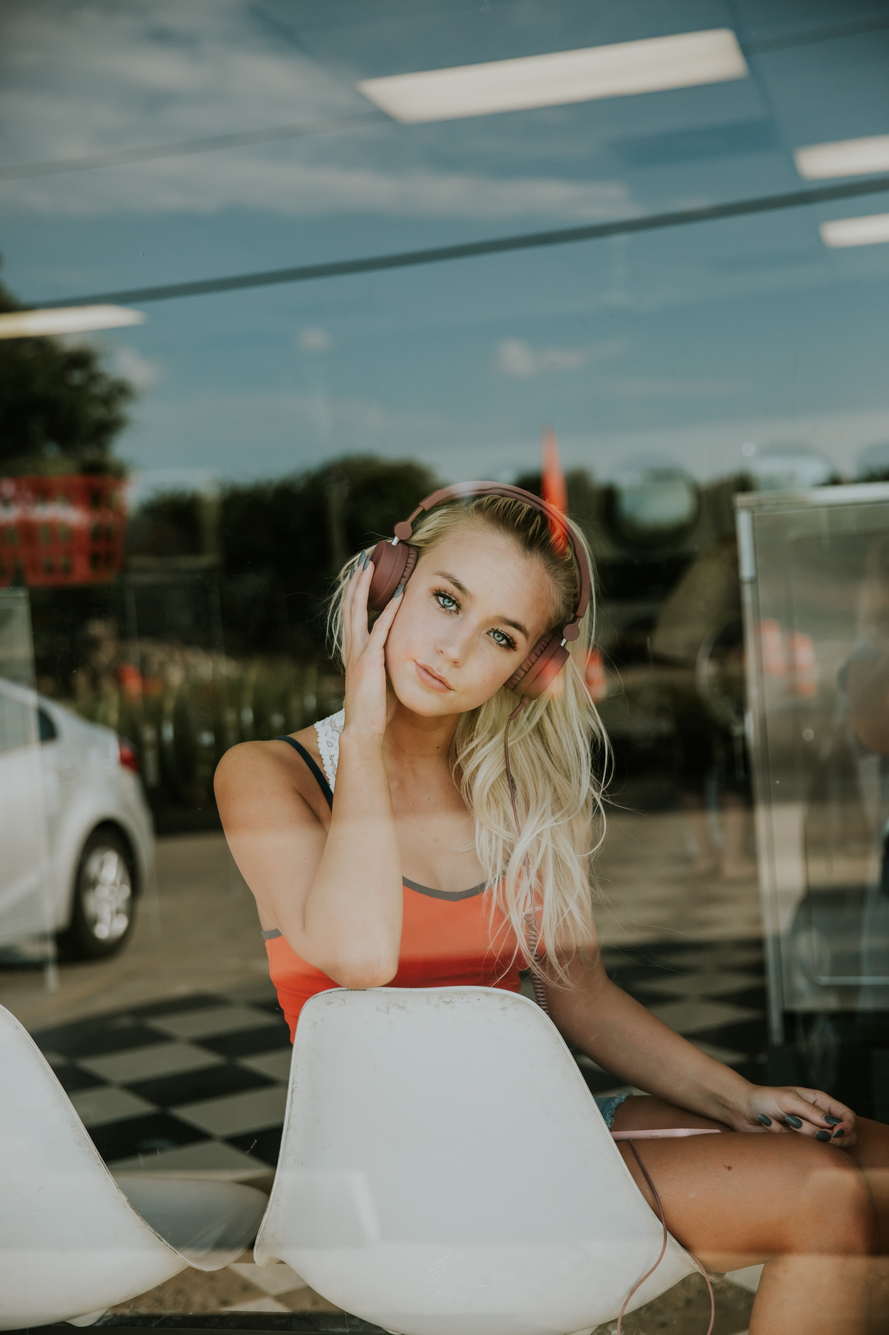
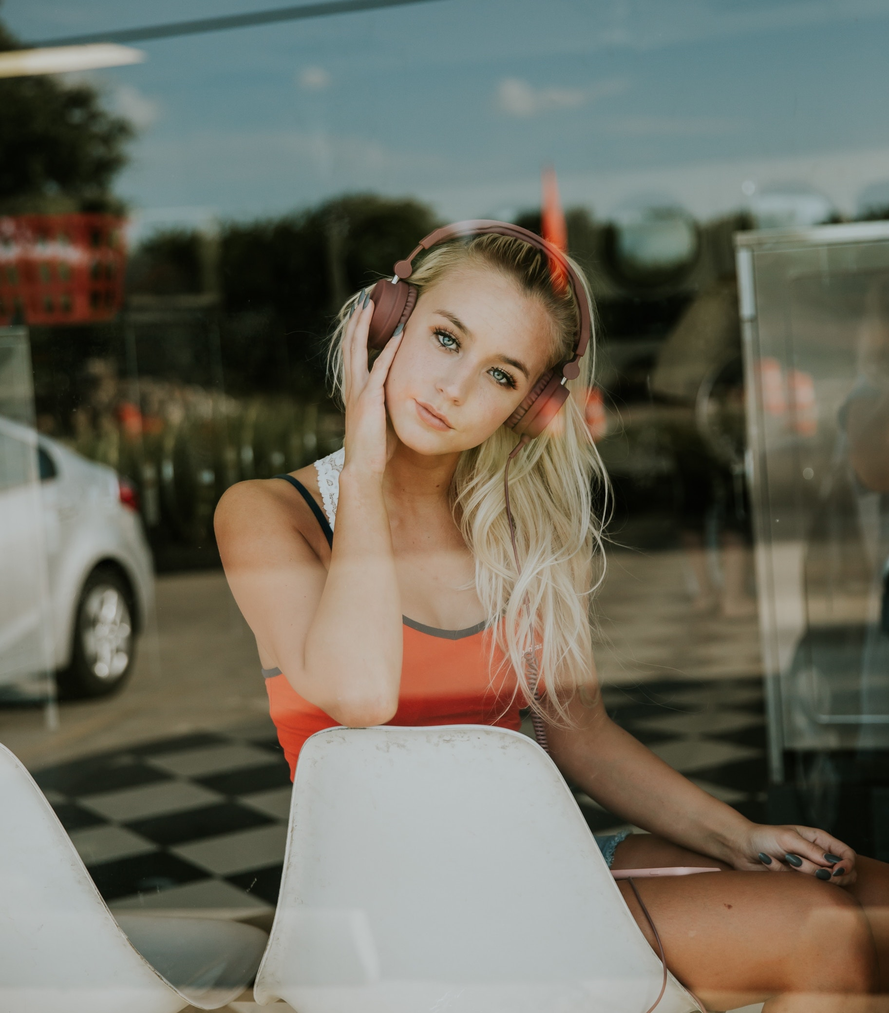
Update the html

diff --git a/index.html b/index.html
@@ -77,12 +77,6 @@
       </div>
     </section>
 
-    <section>
-      <div>
-        <img class="img-flex" src="images/dj.jpg" alt="" aria-details="dj" role="presentation">
-      </div>
-    </section>
-
     <section class="grid">
       <div class="yellow-indigo unit [ xs-1 s-1 m-1 l-1 ] pad-t-2 pad-b-2 gutter-2">
         <h2 class="fredoka not-bold text-center tena">Music for Everyone</h2>
@@ -95,8 +89,8 @@
 
     <section>
       <figure>
-        <div class="embed embed-24by10">
-          <img class="embed-item" src="images/neon-sign.jpg" alt="" aria-details="neon-sign" role="presentation">
+        <div class="embed embed-golden">
+          <img class="embed-item" src="images/dj.jpg" alt="" aria-details="dj" role="presentation">
         </div>
       </figure>
     </section>

diff --git a/pricing.html b/pricing.html
@@ -82,14 +82,6 @@
         </div>
       </section>
     </div>
-
-    <section>
-      <figure>
-        <div class="embed embed-24by10">
-          <img class="embed-item" src="images/neon-sign.jpg" alt="" aria-details="neon-sign" role="presentation">
-        </div>
-      </figure>
-    </section>
   </main>
 
   <footer class="footer grid micro text-center island-1-2" role="contentinfo">
